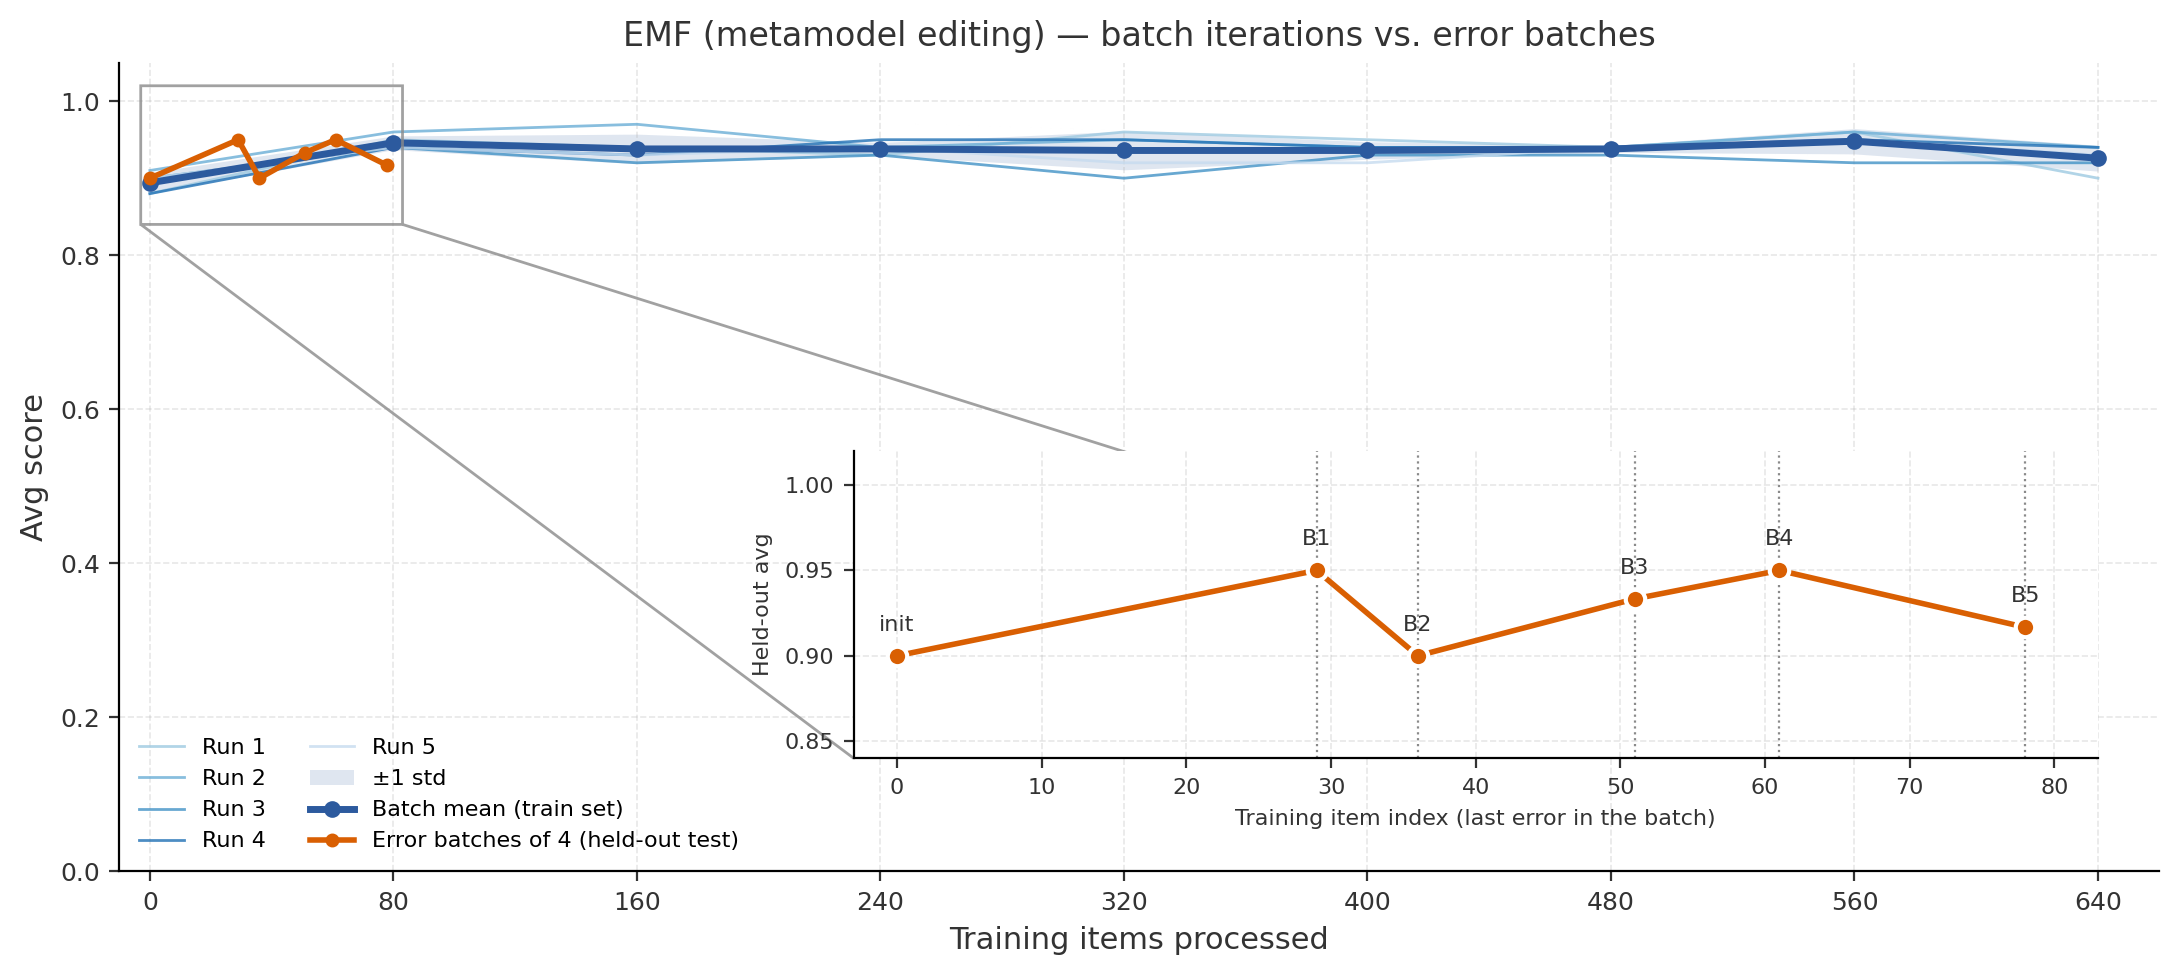
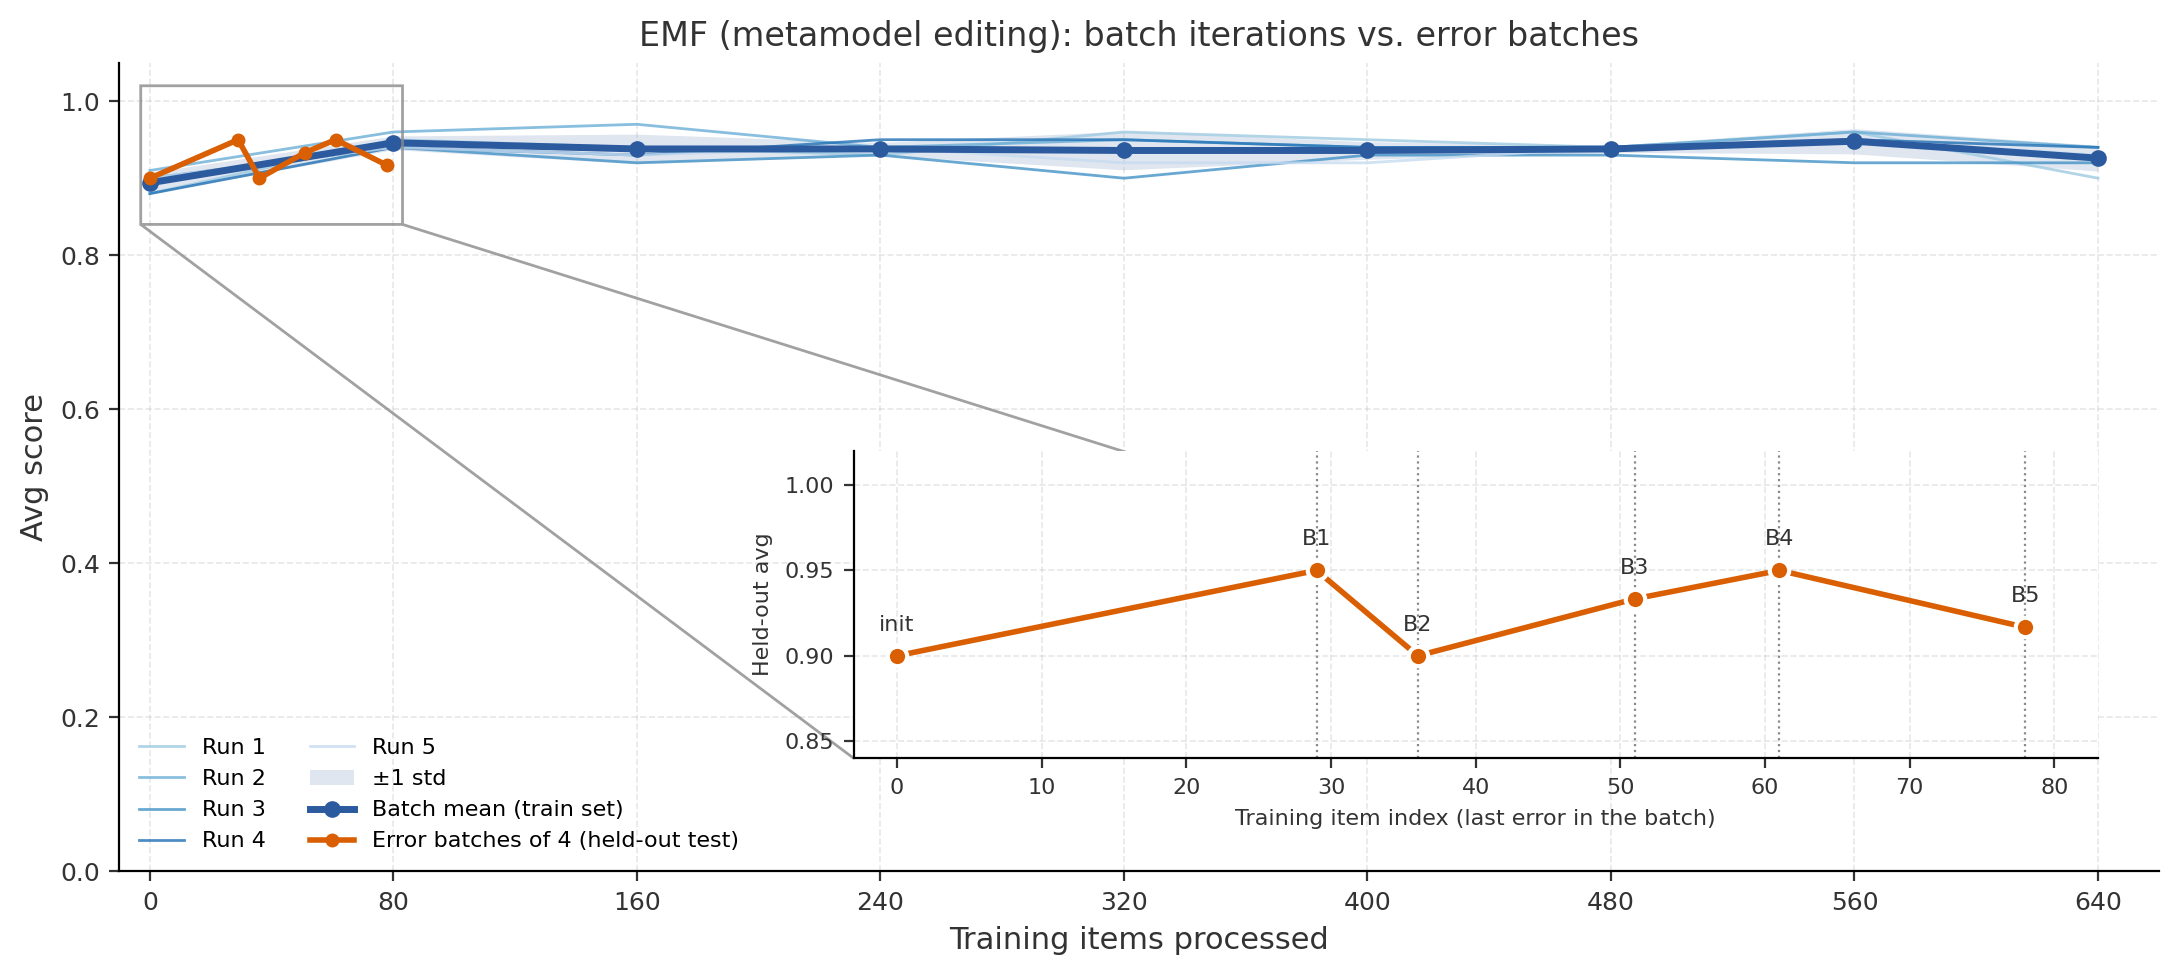
Small title display fix

Changed region(s): [[0.281, 0.0, 0.7493, 0.0615]]

diff --git a/visualize_error_batches_emf.py b/visualize_error_batches_emf.py
@@ -90,7 +90,7 @@ ax.set_xticks(bx)
 ax.set_ylim(0, 1.05)
 ax.set_xlabel("Training items processed", fontsize=11, color=INK)
 ax.set_ylabel("Avg score", fontsize=11, color=INK)
-ax.set_title("EMF (metamodel editing) — batch iterations vs. error batches", fontsize=12, color=INK)
+ax.set_title("EMF (metamodel editing): batch iterations vs. error batches", fontsize=12, color=INK)
 style(ax)
 
 # ── Zoom on items 0–80 ───────────────────────────────────────────────────────
